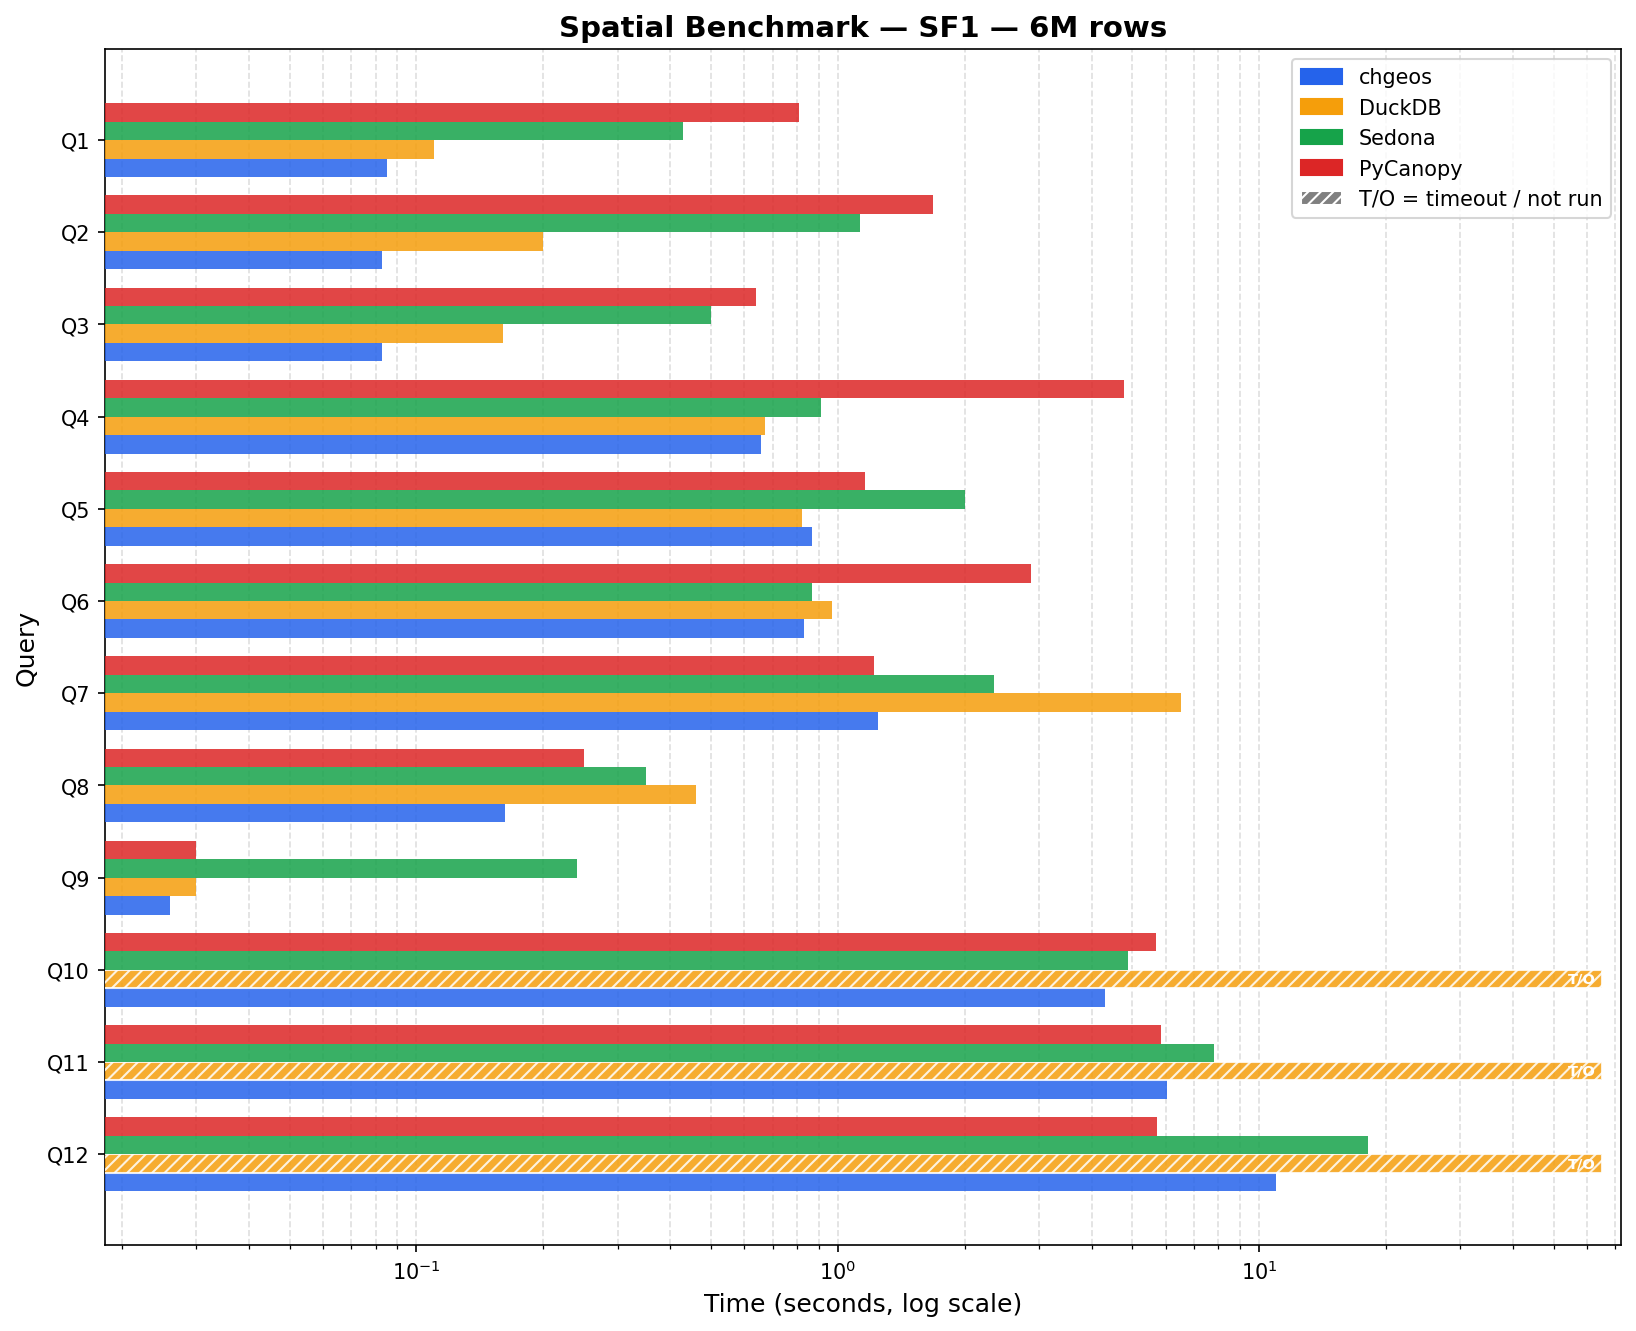
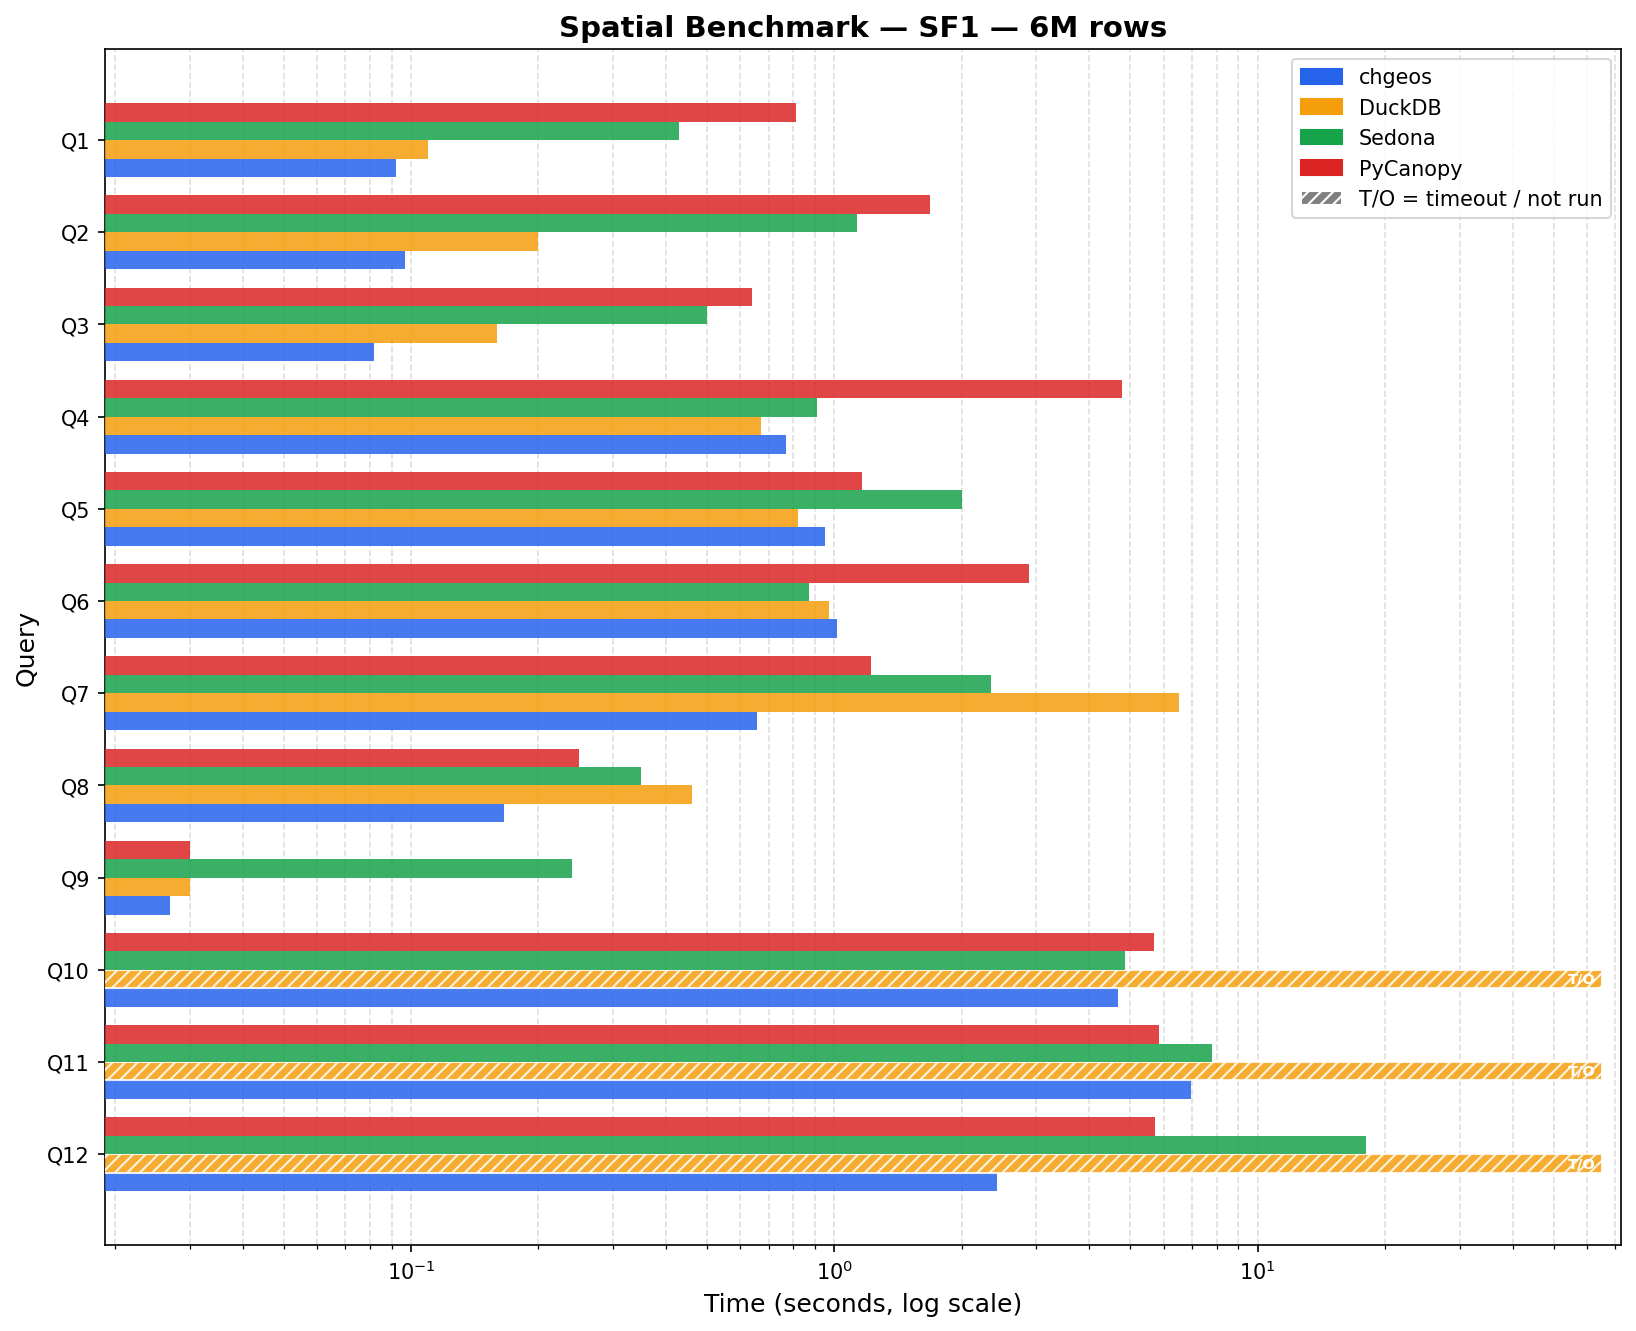
Refresh SF1 and SF10 benchmark numbers
Both scales re-measured on an idle machine and verified against the
spatialbench reference answers first (12/12 at SF1 and SF10).

Q12 drops 10.9 s to 2.4 s at SF1 and 103.8 s to 31.2 s at SF10 after the
exact-distance kNN refinement. Q7 halves at both scales — nothing in that
path changed, so the old figures were measured under load. Q5, Q10 and
Q11 come out 8-18% slower than the previous run, which is run-to-run
width on queries no commit touched.

Also stop bench_sf.py --json from dying after a full suite: the default
output path was relative to the cwd, so running the script from anywhere
but the repo root threw FileNotFoundError once all the timings were in.

diff --git a/scripts/bench_sf.py b/scripts/bench_sf.py
@@ -369,6 +369,7 @@ def get_git_sha():
 
 def write_json_line(output_path, suite_dict):
     """Append one BenchmarkSuite dict as a JSON line."""
+    os.makedirs(os.path.dirname(os.path.abspath(output_path)), exist_ok=True)
     with open(output_path, "a") as f:
         json.dump(suite_dict, f)
         f.write("\n")
@@ -418,8 +419,11 @@ def main():
         query_filter.update(q.strip().upper() for q in args.queries.split(","))
 
     json_flag = args.json
+    # Anchor the default at the repo, not the cwd: running the script from
+    # anywhere else used to die with FileNotFoundError after the whole suite.
+    repo_root = os.path.dirname(os.path.dirname(os.path.abspath(__file__)))
     output_path = args.output if args.output else (
-        f"{args.sf}/benchmark_results.json" if json_flag else None
+        os.path.join(repo_root, args.sf, "benchmark_results.json") if json_flag else None
     )
 
     # Spill defaults to 0.5 * max_server_memory_usage (30G in config-test.xml),

diff --git a/BENCHMARK.md b/BENCHMARK.md
@@ -19,20 +19,20 @@ Apache Sedona (SedonaDB) and PyCanopy on the spatial benchmark suite.
 
 | Query | Description                        | chgeos   | DuckDB   | Sedona  | PyCanopy | Winner   |
 |-------|------------------------------------|----------|----------|---------|----------|----------|
-| Q1    | Point-in-radius filter             | 0.085 s  | 0.11 s   | 0.43 s  | 0.81 s   | chgeos   |
-| Q2    | Count trips in county polygon      | 0.083 s  | 0.20 s   | 1.13 s  | 1.68 s   | chgeos   |
-| Q3    | Monthly stats in bbox+buffer       | 0.083 s  | 0.16 s   | 0.50 s  | 0.64 s   | chgeos   |
-| Q4    | Zone distribution (top-1000 tips)  | 0.657 s  | 0.67 s   | 0.91 s  | 4.78 s   | Tie      |
-| Q5    | Convex hull area per customer/month| 0.869 s  | 0.82 s   | 2.00 s  | 1.16 s   | Tie      |
-| Q6    | Zone stats for bbox-intersect zones| 0.829 s  | 0.97 s   | 0.87 s  | 2.88 s   | Tie      |
-| Q7    | Detour ratio (all trips)           | 1.245 s  | 6.53 s   | 2.35 s  | 1.22 s   | Tie      |
-| Q8    | Nearby pickups per building        | 0.162 s  | 0.46 s   | 0.35 s  | 0.25 s   | chgeos   |
-| Q9    | Building conflation via IoU        | 0.026 s  | 0.03 s   | 0.24 s  | 0.03 s   | chgeos   |
-| Q10   | Zone avg duration/distance         | 4.299 s  | TIMEOUT  | 4.87 s  | 5.70 s   | chgeos   |
-| Q11   | Cross-zone trip count              | 6.049 s  | TIMEOUT  | 7.82 s  | 5.84 s   | Tie      |
-| Q12   | 5 nearest buildings per trip (kNN) | 10.947 s | TIMEOUT  | 18.07 s | 5.71 s   | PyCanopy |
+| Q1    | Point-in-radius filter             | 0.092 s  | 0.11 s   | 0.43 s  | 0.81 s   | chgeos   |
+| Q2    | Count trips in county polygon      | 0.097 s  | 0.20 s   | 1.13 s  | 1.68 s   | chgeos   |
+| Q3    | Monthly stats in bbox+buffer       | 0.082 s  | 0.16 s   | 0.50 s  | 0.64 s   | chgeos   |
+| Q4    | Zone distribution (top-1000 tips)  | 0.767 s  | 0.67 s   | 0.91 s  | 4.78 s   | DuckDB   |
+| Q5    | Convex hull area per customer/month| 0.949 s  | 0.82 s   | 2.00 s  | 1.16 s   | DuckDB   |
+| Q6    | Zone stats for bbox-intersect zones| 1.013 s  | 0.97 s   | 0.87 s  | 2.88 s   | Sedona   |
+| Q7    | Detour ratio (all trips)           | 0.657 s  | 6.53 s   | 2.35 s  | 1.22 s   | chgeos   |
+| Q8    | Nearby pickups per building        | 0.166 s  | 0.46 s   | 0.35 s  | 0.25 s   | chgeos   |
+| Q9    | Building conflation via IoU        | 0.027 s  | 0.03 s   | 0.24 s  | 0.03 s   | chgeos   |
+| Q10   | Zone avg duration/distance         | 4.683 s  | TIMEOUT  | 4.87 s  | 5.70 s   | Tie      |
+| Q11   | Cross-zone trip count              | 6.957 s  | TIMEOUT  | 7.82 s  | 5.84 s   | PyCanopy |
+| Q12   | 5 nearest buildings per trip (kNN) | 2.421 s  | TIMEOUT  | 18.07 s | 5.71 s   | chgeos   |
 
-**SF1 wins — chgeos: 6, DuckDB: 0, Sedona: 0, PyCanopy: 1, Ties: 5**
+**SF1 wins — chgeos: 7, DuckDB: 2, Sedona: 1, PyCanopy: 1, Ties: 1**
 
 ![SF1 benchmark](sf1.png)
 
@@ -42,25 +42,26 @@ Apache Sedona (SedonaDB) and PyCanopy on the spatial benchmark suite.
 
 | Query | Description                        | chgeos    | DuckDB   | Sedona   | PyCanopy | Winner   |
 |-------|------------------------------------|-----------|----------|----------|----------|----------|
-| Q1    | Point-in-radius filter             | 0.540 s   | 0.44 s   | 0.94 s   | 18.93 s  | DuckDB   |
-| Q2    | Count trips in county polygon      | 0.694 s   | 0.70 s   | 1.64 s   | 12.81 s  | Tie      |
-| Q3    | Monthly stats in bbox+buffer       | 0.499 s   | 0.54 s   | 1.43 s   | 14.59 s  | chgeos   |
-| Q4    | Zone distribution (top-1000 tips)  | 1.150 s   | 1.08 s   | 1.86 s   | 19.80 s  | DuckDB   |
-| Q5    | Convex hull area per customer/month| 9.625 s   | 8.24 s   | 42.43 s  | 21.93 s  | DuckDB   |
-| Q6    | Zone stats for bbox-intersect zones| 1.832 s   | 1.95 s   | 2.86 s   | 7.74 s   | chgeos   |
-| Q7    | Detour ratio (all trips)           | 11.403 s  | 68.31 s  | 42.28 s  | 14.39 s  | chgeos   |
-| Q8    | Nearby pickups per building        | 1.706 s   | 2.19 s   | 2.02 s   | 2.69 s   | chgeos   |
-| Q9    | Building conflation via IoU        | 0.103 s   | 0.16 s   | 0.37 s   | 0.06 s   | PyCanopy |
-| Q10   | Zone avg duration/distance         | 29.784 s  | TIMEOUT  | 17.02 s  | 27.05 s  | Sedona   |
-| Q11   | Cross-zone trip count              | 42.129 s  | TIMEOUT  | TIMEOUT  | 42.97 s  | Tie      |
-| Q12   | 5 nearest buildings per trip (kNN) | 103.830 s | TIMEOUT  | TIMEOUT  | 98.60 s  | PyCanopy |
+| Q1    | Point-in-radius filter             | 0.710 s   | 0.44 s   | 0.94 s   | 18.93 s  | DuckDB   |
+| Q2    | Count trips in county polygon      | 0.879 s   | 0.70 s   | 1.64 s   | 12.81 s  | DuckDB   |
+| Q3    | Monthly stats in bbox+buffer       | 0.703 s   | 0.54 s   | 1.43 s   | 14.59 s  | DuckDB   |
+| Q4    | Zone distribution (top-1000 tips)  | 1.516 s   | 1.08 s   | 1.86 s   | 19.80 s  | DuckDB   |
+| Q5    | Convex hull area per customer/month| 10.913 s  | 8.24 s   | 42.43 s  | 21.93 s  | DuckDB   |
+| Q6    | Zone stats for bbox-intersect zones| 2.066 s   | 1.95 s   | 2.86 s   | 7.74 s   | DuckDB   |
+| Q7    | Detour ratio (all trips)           | 5.908 s   | 68.31 s  | 42.28 s  | 14.39 s  | chgeos   |
+| Q8    | Nearby pickups per building        | 1.826 s   | 2.19 s   | 2.02 s   | 2.69 s   | chgeos   |
+| Q9    | Building conflation via IoU        | 0.109 s   | 0.16 s   | 0.37 s   | 0.06 s   | PyCanopy |
+| Q10   | Zone avg duration/distance         | 35.115 s  | TIMEOUT  | 17.02 s  | 27.05 s  | Sedona   |
+| Q11   | Cross-zone trip count              | 46.128 s  | TIMEOUT  | TIMEOUT  | 42.97 s  | PyCanopy |
+| Q12   | 5 nearest buildings per trip (kNN) | 31.166 s  | TIMEOUT  | TIMEOUT  | 98.60 s  | chgeos   |
 
-**SF10 wins — chgeos: 4, DuckDB: 3, Sedona: 1, PyCanopy: 2, Ties: 2**
+**SF10 wins — chgeos: 3, DuckDB: 6, Sedona: 1, PyCanopy: 2, Ties: 0**
 
-The SF10 chgeos column was re-measured on 2026-08-06; competitor columns are from
-2026-05-06 (DuckDB, Sedona) and 2026-07-29 (PyCanopy). Q1–Q4 are Parquet-I/O bound and
-drift ±25% with machine state — three chgeos runs the same day gave Q1 0.540 s, 0.550 s
-and 0.728 s. Treat the sub-2-second SF10 rows as indicative, not as a ranking.
+Both chgeos columns were re-measured on 2026-08-06 on an idle machine, and every query
+was checked against the spatialbench reference answers first (SF1 and SF10 both 12/12).
+Competitor columns are from 2026-05-06 (DuckDB, Sedona) and 2026-07-29 (PyCanopy).
+Q1–Q4 are Parquet-I/O bound and drift ±25% with machine state, so treat the
+sub-2-second SF10 rows as indicative, not as a ranking.
 
 ![SF10 benchmark](sf10.png)
 
@@ -74,33 +75,34 @@ ORDER BY merge. Without it, ClickHouse defers the function to the single-threade
 post-sort stage, causing ~7× slowdown. Q5 also needs `max_bytes_ratio_before_external_group_by=0`
 at SF10: it accumulates ~21 GiB across 3.1M groups, and the default ratio spills to disk at
 0.5 × `max_server_memory_usage`, costing ~3.5 s. DuckDB leads at SF10 (8.24 s vs chgeos
-9.6 s); PyCanopy is 22 s and Sedona 4× slower (42 s).
+10.9 s); PyCanopy is 22 s and Sedona 4× slower (42 s).
 
 **Q7 (detour ratio):** Scans all rows computing `st_length(st_makeline(...))` with no
 spatial join. WasmChainFusionPass fuses `st_makeline → st_length` into a single WASM
-call, eliminating the intermediate WKB round-trip. chgeos leads DuckDB (68 s) and
-Sedona (42 s) by a wide margin at SF10 (11.4 s); PyCanopy is the closest competitor (14.4 s),
-and at SF1 the two are within 2% of each other.
+call, eliminating the intermediate WKB round-trip. chgeos leads at both scales by a wide
+margin — SF10 5.9 s against DuckDB 68 s, Sedona 42 s and PyCanopy 14.4 s. The earlier
+figures for this query (1.245 s at SF1, 11.4 s at SF10) were measured on a busy machine;
+the numbers above come from an idle one and are roughly 2× faster.
 
 **Q9 (building IoU):** Self-join of ~20K buildings. SpatialRTreeJoin evaluates
 non-spatial ON conditions (e.g. `b1.id < b2.id`) as a pre-filter before the spatial
 predicate, cutting candidate pairs dramatically. chgeos leads DuckDB and Sedona at both
-scales, but PyCanopy is faster at SF10 (0.06 s vs 0.103 s).
+scales, but PyCanopy is faster at SF10 (0.06 s vs 0.109 s).
 
-**Q10 at SF10:** Sedona wins (17 s vs chgeos 30 s and PyCanopy 27 s, DuckDB TIMEOUT).
+**Q10 at SF10:** Sedona wins (17 s vs chgeos 35 s and PyCanopy 27 s, DuckDB TIMEOUT).
 Sedona's DataFusion task-parallel build/probe model handles the large trip build side
 more efficiently. DuckDB cannot complete within 120 s.
 
 **Q11 at SF10:** Sedona times out because it materializes the intermediate
 trip×pickup_zone result before applying the second zone join, causing memory explosion
 at SF10. chgeos handles both zone joins in a single `SpatialRTreeDoubleJoin` pass
-(42.1 s vs TIMEOUT for both DuckDB and Sedona). PyCanopy also completes, at 43.0 s — a tie
-with chgeos.
+(46.1 s vs TIMEOUT for both DuckDB and Sedona). PyCanopy also completes, and is 7% faster
+at 43.0 s.
 
-**Q12 (kNN):** WASM `st_knn` uses a static 2-D centroid k-d tree with branch-and-bound
-search. Both DuckDB and Sedona time out at SF10; chgeos completes in 103.8 s. PyCanopy
-is the fastest engine on this query at both scales (5.7 s at SF1, 98.6 s at SF10) —
-at SF1 chgeos is 1.9× slower, but that gap is a sort bottleneck rather than `st_knn`
-itself, which accounts for well under a second of the total. At SF10 the two are within
-6%. Note that Q12 sits close enough to the 120 s cap that a loaded machine can push it
-over; measuring it needs `bench_sf.py --timeout 300`.
+**Q12 (kNN):** WASM `st_knn` uses a static 2-D centroid k-d tree for candidate selection,
+then refines the surviving candidates to an exact point-to-geometry distance. The tree
+alone reports centroid distance, which is not what `ST_Distance` means — before the
+refinement landed, Q12 disagreed with the reference answers. Refinement reads coordinates
+flattened once at index build, so it needs no GEOS parse per row, and Q12 got
+*faster*: 10.9 s → 2.4 s at SF1, 103.8 s → 31.2 s at SF10. chgeos now leads the query at
+both scales; DuckDB and Sedona still time out at SF10, and PyCanopy is 5.7 s / 98.6 s.
